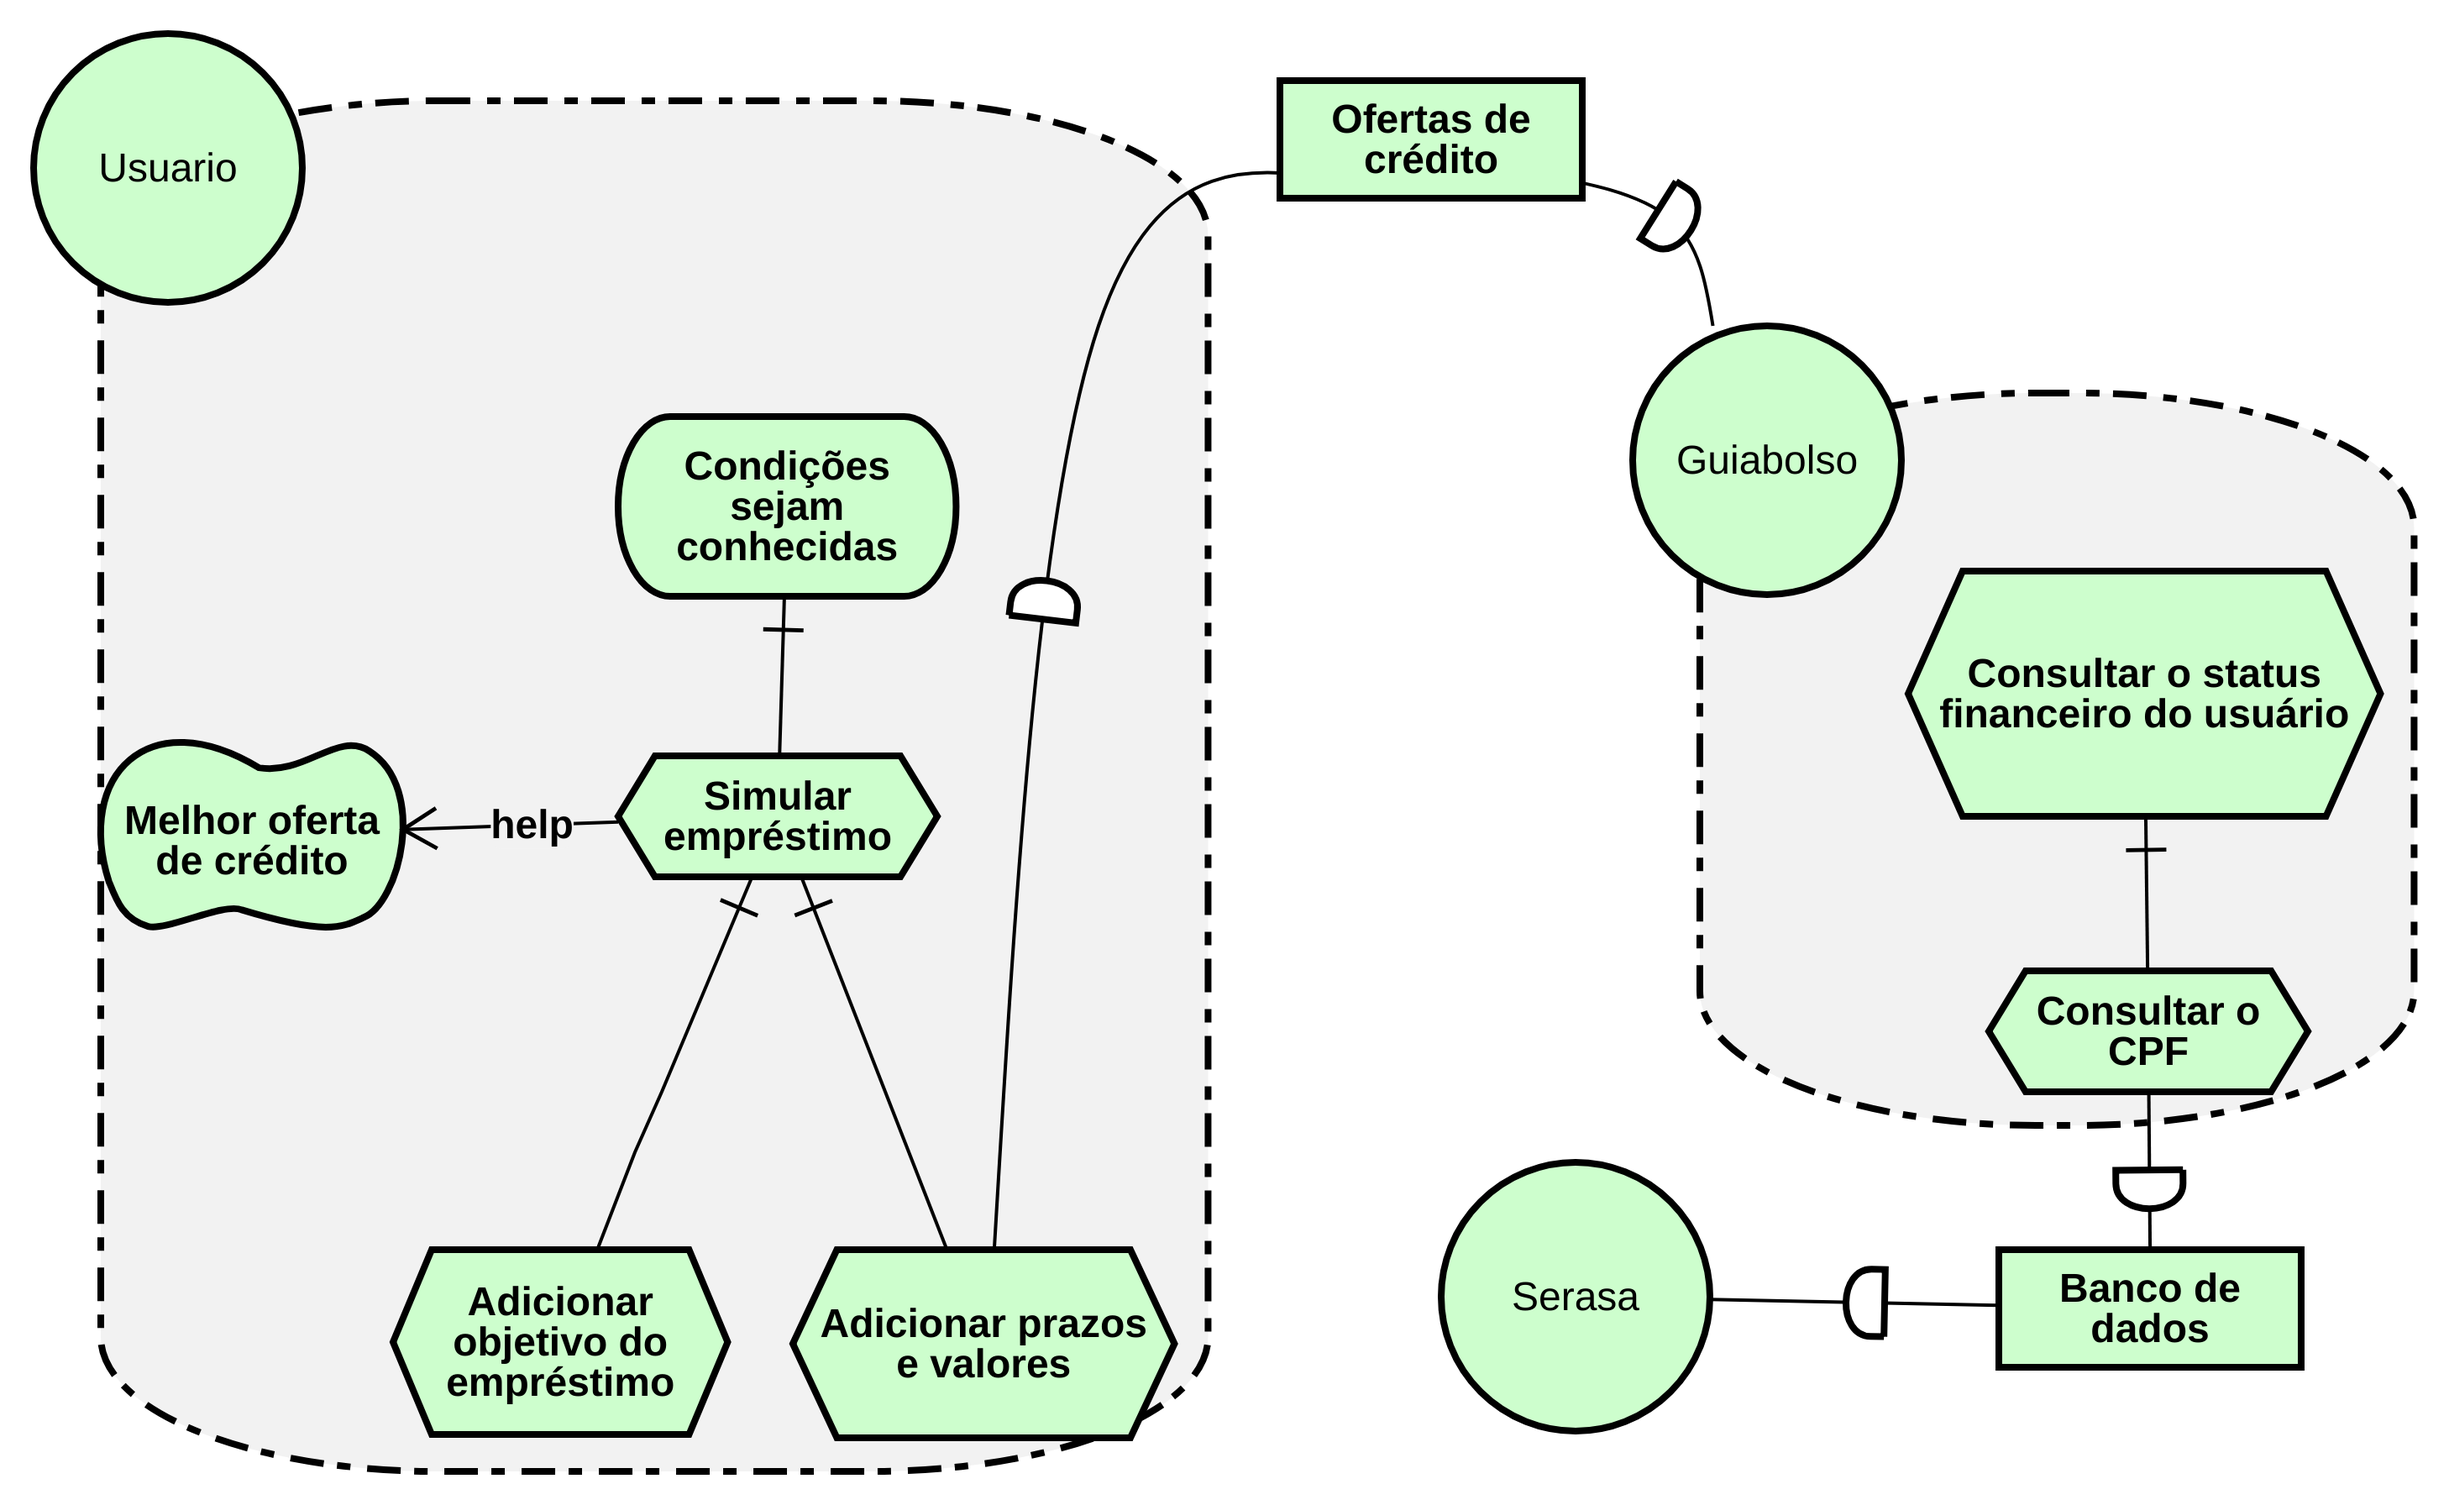
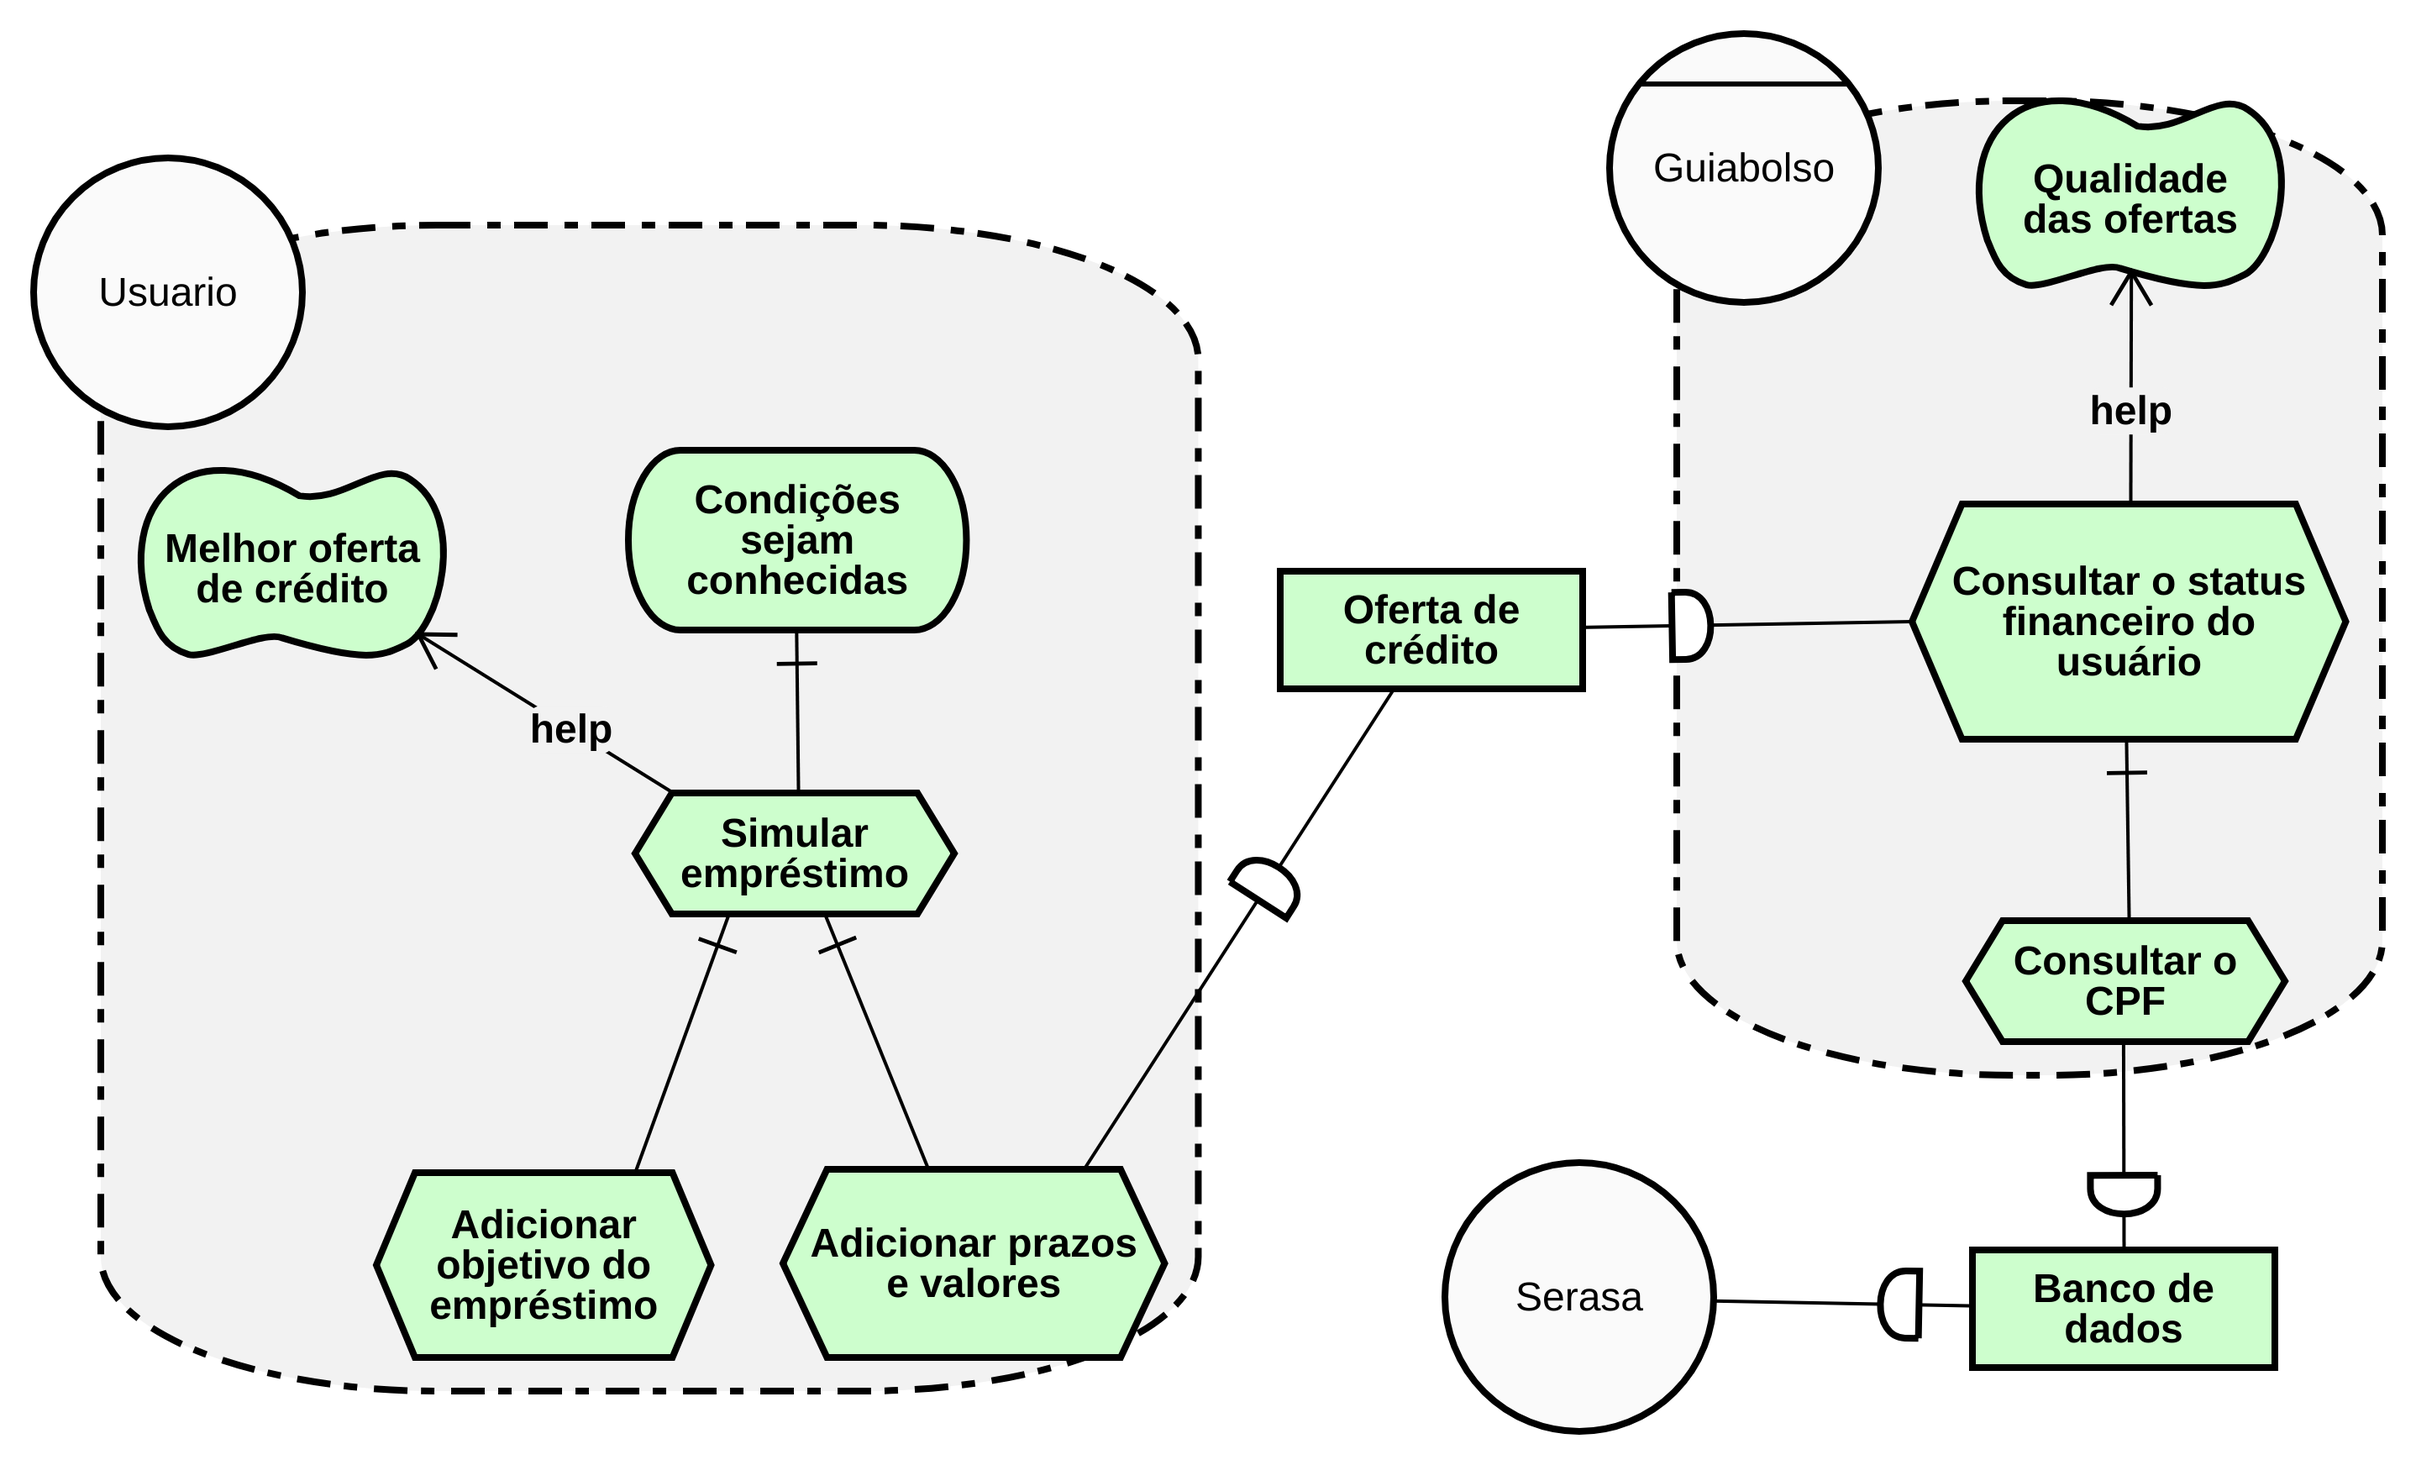
Refatorando IS01 e IS03 Co-authored-by: Rafael Makaha <rafael.makaha@mail.com>

diff --git a/docs/modelagem/istar.md b/docs/modelagem/istar.md
@@ -35,7 +35,7 @@ Obs.: Todas as imagens podem ser ampliadas ao se clicar nelas.
 
 | **IS03** | **Simular empréstimo**|
 |--|--|
-| **Versão**| Atual: 1.0 (26/05) <br> Anterior: --|
+| **Versão**| Atual: 1.1 (26/05) <br> Anterior: [1.0](#is03-simular-emprestimo_1) (26/05)|
 | **Rastreabilidade** | [Casos de uso](../casos_de_uso) |
 
 
@@ -130,7 +130,20 @@ Obs.: Todas as imagens podem ser ampliadas ao se clicar nelas.
 | **Versão**| Atual: 1.0 (25/05) <br> Anterior: --|
 | **Rastreabilidade** | Cenário [C6](../cenarios/#c6-consultar-cpf) , [C4](../cenarios/#c4-realizar-abertura-do-cadastro-positivo), Léxico [L3](../lexicos/#l3-consultar-cpf), [L20](../lexicos/#l20-radar-cpf), RichPicture [RP09](../../pre-rastreabilidade/richpicture/#rp09-radar-cpf) e Casos de uso [UC13](../casos_de_uso/#uc13-visualizar-status-do-nome-limpo-ou-sujo), [UC24](../casos_de_uso/#uc24-realizar-abertura-do-cadastro-positivo).|
 
+## Versões anteriores
+
+### IS03 - Simular empréstimo
+
+#### Strategic Rationale Model (SR)
+[ ![IS03](./../img/istar/simular_emprestimo1.png)](./../img/istar/simular_emprestimo1.png)
+
+| **IS03** | **Simular empréstimo**|
+|--|--|
+| **Versão**| Atual: 1.0 (26/05) <br> Anterior: --|
+| **Rastreabilidade** | [Casos de uso](../casos_de_uso) |
+
+
 ## Referências 
 
- - [http://www.cs.toronto.edu/km/istar/#Overview](http://www.cs.toronto.edu/km/istar/#Overview)
- - [https://www.cin.ufpe.br/~jhcp/pistar/](https://www.cin.ufpe.br/~jhcp/pistar/)
+ - [ i* an agent- and goal-oriented modelling framework ](http://www.cs.toronto.edu/km/istar/#Overview)
+ - [ Pimentel, João and Castro, Jaelson. piStar Tool – A Pluggable Online Tool for Goal Modeling. 2018 IEEE 26th International Requirements Engineering Conference, pp. 498-499. ](https://www.cin.ufpe.br/~jhcp/pistar/)
